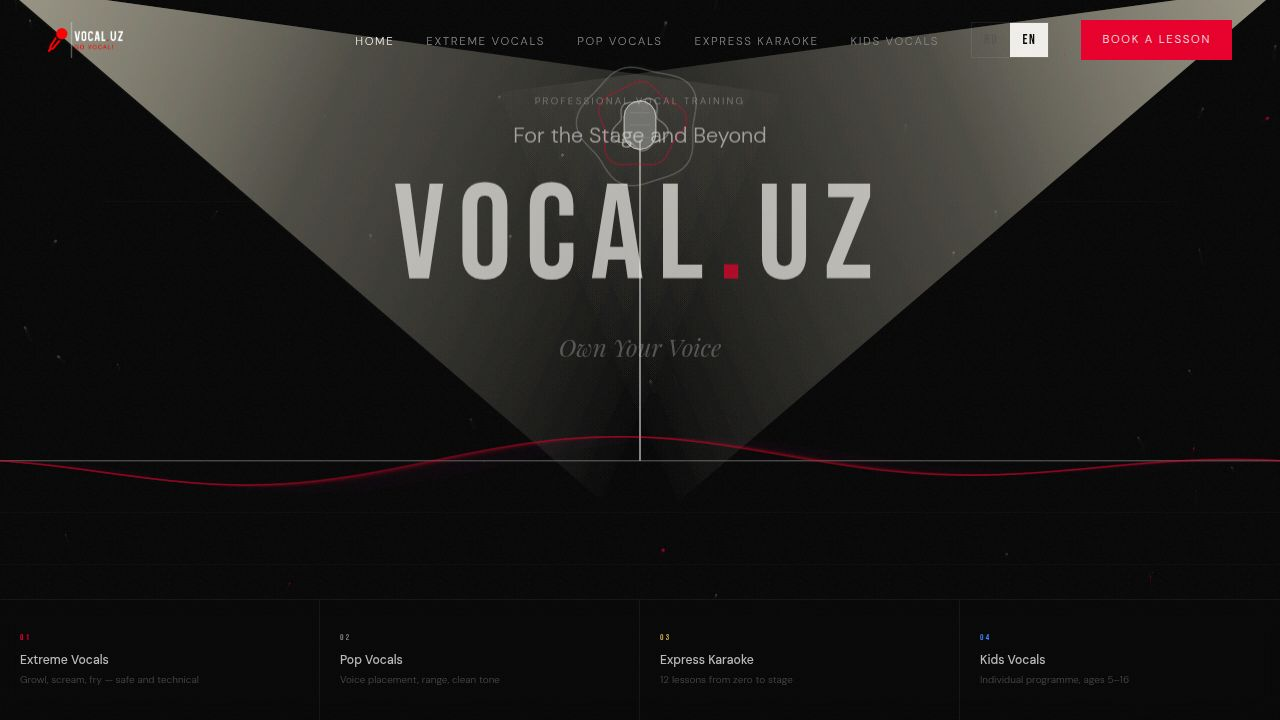
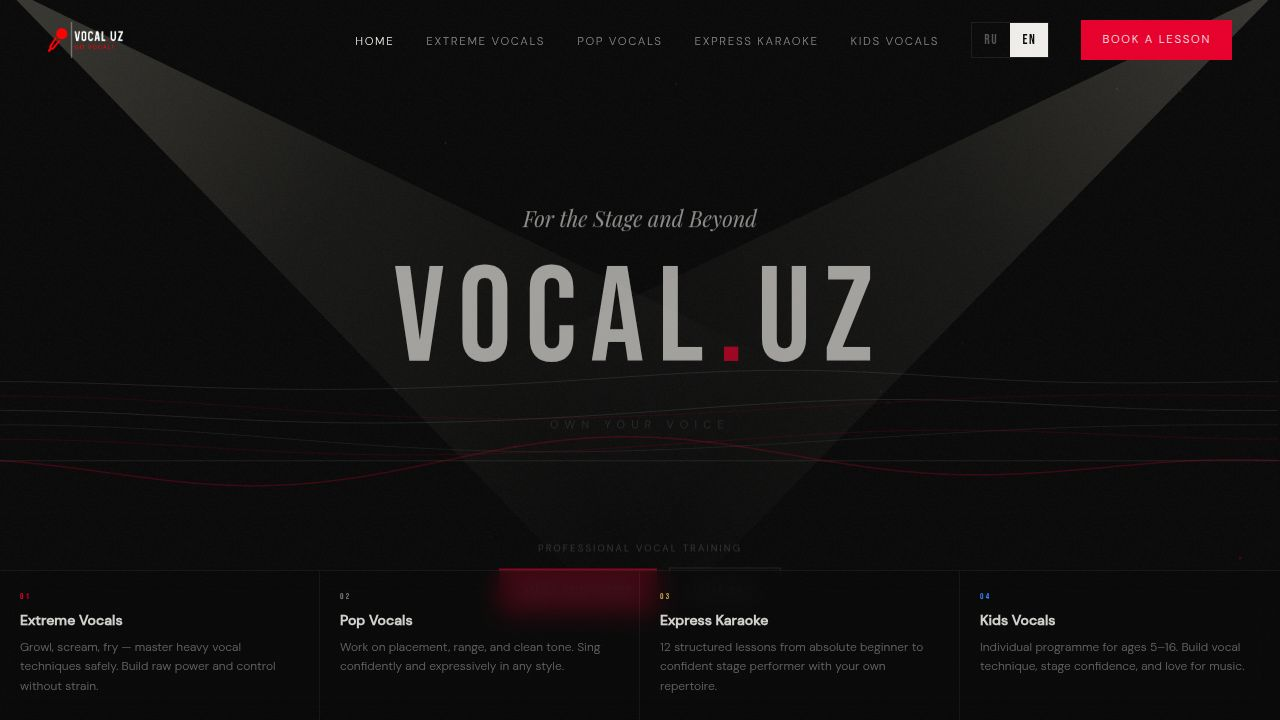
Enhance website appearance and optimize performance for a smoother user experience
Update StageCanvas.tsx to optimize animation performance, reduce particle count, and remove the microphone element. Modify Home.tsx to adjust the positioning of text elements, buttons, and the overall layout, while also restyling the "Own Your Voice" text for a more premium look and refining the appearance of sound waves and spotlights.

Replit-Commit-Author: Agent
Replit-Commit-Session-Id: 6d52f0fa-b37f-44e2-8a92-0a4e87ca5e2f
Replit-Commit-Checkpoint-Type: full_checkpoint
Replit-Commit-Event-Id: 73db0d34-9929-40c7-9d1e-d5d12a8bd964
Replit-Commit-Screenshot-Url: https://storage.googleapis.com/screenshot-production-us-central1/8c66aa3f-49f4-49f2-97a4-2fdcd6a14f45/6d52f0fa-b37f-44e2-8a92-0a4e87ca5e2f/KxLfHwG
Replit-Helium-Checkpoint-Created: true

diff --git a/artifacts/vocal-uz/src/components/StageCanvas.tsx b/artifacts/vocal-uz/src/components/StageCanvas.tsx
@@ -6,7 +6,7 @@ export function StageCanvas({ className }: { className?: string }) {
   useEffect(() => {
     const canvas = canvasRef.current;
     if (!canvas) return;
-    const ctx = canvas.getContext("2d");
+    const ctx = canvas.getContext("2d", { alpha: false });
     if (!ctx) return;
 
     const mq = window.matchMedia("(prefers-reduced-motion: reduce)");
@@ -16,6 +16,8 @@ export function StageCanvas({ className }: { className?: string }) {
     let time = 0;
     let mX = 0.5, mY = 0.5;
     let rafId = 0;
+    let lastTs = 0;
+    let hidden = document.hidden;
 
     function resize() {
       const rect = canvas!.getBoundingClientRect();
@@ -34,6 +36,9 @@ export function StageCanvas({ className }: { className?: string }) {
     };
     document.addEventListener("mousemove", onMouse);
 
+    const onVisibility = () => { hidden = document.hidden; };
+    document.addEventListener("visibilitychange", onVisibility);
+
     type P = { x: number; y: number; vx: number; vy: number; life: number; size: number; red: boolean };
 
     function makeParticle(init = false): P {
@@ -48,7 +53,7 @@ export function StageCanvas({ className }: { className?: string }) {
       };
     }
 
-    let particles: P[] = Array.from({ length: 55 }, () => makeParticle(true));
+    const particles: P[] = Array.from({ length: 22 }, () => makeParticle(true));
 
     function updateParticle(p: P) {
       p.x += p.vx + Math.sin(time * 0.35 + p.y * 0.012) * 0.12;
@@ -77,21 +82,18 @@ export function StageCanvas({ className }: { className?: string }) {
       const dist = Math.sqrt(dx * dx + dy * dy);
       const baseAngle = Math.atan2(dy, dx);
       const len = dist * 1.65;
-
       const a1 = baseAngle - spreadRad / 2;
       const a2 = baseAngle + spreadRad / 2;
       const x1 = tipX + Math.cos(a1) * len;
       const y1 = tipY + Math.sin(a1) * len;
       const x2 = tipX + Math.cos(a2) * len;
       const y2 = tipY + Math.sin(a2) * len;
-
       const gradEndX = tipX + Math.cos(baseAngle) * dist * 1.1;
       const gradEndY = tipY + Math.sin(baseAngle) * dist * 1.1;
       const grad = ctx!.createLinearGradient(tipX, tipY, gradEndX, gradEndY);
       grad.addColorStop(0, `rgba(255,248,220,${(alpha * 3.5).toFixed(3)})`);
       grad.addColorStop(0.45, `rgba(255,248,220,${(alpha * 1.1).toFixed(3)})`);
       grad.addColorStop(1, "rgba(255,248,220,0)");
-
       ctx!.save();
       ctx!.beginPath();
       ctx!.moveTo(tipX, tipY);
@@ -103,87 +105,17 @@ export function StageCanvas({ className }: { className?: string }) {
       ctx!.restore();
     }
 
-    function drawRing(cx: number, cy: number, r0: number, phase: number, color: string, alpha: number) {
-      ctx!.save();
-      ctx!.globalAlpha = alpha;
-      ctx!.strokeStyle = color;
-      ctx!.lineWidth = 1.5;
-      ctx!.beginPath();
-      const N = 72;
-      for (let i = 0; i <= N; i++) {
-        const a = (i / N) * Math.PI * 2;
-        const wave =
-          Math.sin(a * 5 + time * 1.1 + phase) * 3.5 +
-          Math.sin(a * 3 - time * 0.65 + phase) * 2.5;
-        const r = r0 + wave;
-        const x = cx + Math.cos(a) * r;
-        const y = cy + Math.sin(a) * r;
-        i === 0 ? ctx!.moveTo(x, y) : ctx!.lineTo(x, y);
-      }
-      ctx!.closePath();
-      ctx!.stroke();
-      ctx!.restore();
-    }
-
-    function drawHangingMic(): { hx: number; hy: number } {
-      const capsW = 16;
-      const capsH = 50;
-      const r = capsW / 2;
-      const sway = Math.sin(time * 0.28) * 5;
-      const cx = CX + sway;
-      const cy = H * 0.16;
-
-      ctx!.save();
-
-      ctx!.globalAlpha = 0.55;
-      ctx!.strokeStyle = "rgba(240,238,234,0.75)";
-      ctx!.lineWidth = 1.2;
-      ctx!.beginPath();
-      ctx!.moveTo(CX + sway * 0.15, -90);
-      ctx!.quadraticCurveTo(CX + sway * 0.55, cy * 0.4, cx, cy - capsH / 2);
-      ctx!.stroke();
-
-      ctx!.globalAlpha = 0.10;
-      ctx!.fillStyle = "rgba(240,238,234,1)";
-      ctx!.beginPath();
-      ctx!.roundRect(cx - capsW / 2, cy - capsH / 2, capsW, capsH, r);
-      ctx!.fill();
-
-      ctx!.globalAlpha = 0.55;
-      ctx!.strokeStyle = "rgba(240,238,234,0.7)";
-      ctx!.lineWidth = 1;
-      ctx!.beginPath();
-      ctx!.roundRect(cx - capsW / 2, cy - capsH / 2, capsW, capsH, r);
-      ctx!.stroke();
-
-      ctx!.globalAlpha = 0.20;
-      ctx!.strokeStyle = "rgba(240,238,234,0.5)";
-      ctx!.lineWidth = 0.7;
-      for (let i = 1; i <= 4; i++) {
-        const ly = cy - capsH / 2 + capsH * (i / 5);
-        ctx!.beginPath();
-        ctx!.moveTo(cx - r * 0.65, ly);
-        ctx!.lineTo(cx + r * 0.65, ly);
-        ctx!.stroke();
-      }
-
-      ctx!.restore();
-      return { hx: cx, hy: cy };
-    }
-
     function drawSoundWaves() {
-      const mx = (mX - 0.5) * 40;
-      const myAmp = 1 + (mY - 0.5) * 0.4;
+      const mx = (mX - 0.5) * 38;
+      const myAmp = 1 + (mY - 0.5) * 0.35;
 
       type Wave = { y: number; amp: number; freq: number; spd: number; alpha: number; red?: boolean };
       const waves: Wave[] = [
-        { y: H * 0.49, amp: 13, freq: 7.5, spd: 1.40, alpha: 0.10 },
-        { y: H * 0.52, amp: 24, freq: 4.2, spd: 0.85, alpha: 0.09, red: true },
-        { y: H * 0.54, amp: 18, freq: 6.1, spd: 1.15, alpha: 0.11 },
-        { y: H * 0.56, amp: 28, freq: 3.4, spd: 0.70, alpha: 0.08 },
-        { y: H * 0.58, amp: 16, freq: 8.3, spd: 1.65, alpha: 0.09 },
-        { y: H * 0.60, amp: 22, freq: 5.0, spd: 1.00, alpha: 0.10, red: true },
-        { y: H * 0.62, amp: 11, freq: 9.1, spd: 1.85, alpha: 0.07 },
+        { y: H * 0.53, amp: 14, freq: 7.0, spd: 1.35, alpha: 0.10 },
+        { y: H * 0.55, amp: 22, freq: 4.0, spd: 0.80, alpha: 0.09, red: true },
+        { y: H * 0.57, amp: 18, freq: 6.0, spd: 1.10, alpha: 0.11 },
+        { y: H * 0.59, amp: 24, freq: 3.5, spd: 0.65, alpha: 0.08 },
+        { y: H * 0.61, amp: 20, freq: 5.5, spd: 0.95, alpha: 0.10, red: true },
       ];
 
       waves.forEach(w => {
@@ -192,10 +124,9 @@ export function StageCanvas({ className }: { className?: string }) {
         ctx!.lineWidth = w.red ? 1.3 : 0.85;
         ctx!.globalAlpha = w.alpha;
         ctx!.beginPath();
-        for (let x = 0; x <= W; x += 2) {
+        for (let x = 0; x <= W; x += 3) {
           const nx = x / W;
-          const env = Math.sin(nx * Math.PI);
-          const env2 = Math.pow(env, 1.5);
+          const env2 = Math.pow(Math.sin(nx * Math.PI), 1.5);
           let y = w.y;
           y += Math.sin(nx * w.freq + time * w.spd + mx) * w.amp * env2 * myAmp;
           y += Math.sin(nx * w.freq * 0.5 + time * w.spd * 0.7) * w.amp * 0.3 * env2;
@@ -214,7 +145,7 @@ export function StageCanvas({ className }: { className?: string }) {
       ctx!.globalAlpha = 0.22;
       ctx!.beginPath();
       const mx = (mX - 0.5) * 45;
-      for (let x = 0; x <= W; x += 2) {
+      for (let x = 0; x <= W; x += 3) {
         const nx = x / W;
         const env = Math.sin(nx * Math.PI);
         const y =
@@ -235,7 +166,6 @@ export function StageCanvas({ className }: { className?: string }) {
       ctx!.moveTo(0, floorY);
       ctx!.lineTo(W, floorY);
       ctx!.stroke();
-
       ctx!.strokeStyle = "rgba(255,255,255,0.022)";
       ctx!.lineWidth = 0.5;
       for (let i = 1; i <= 4; i++) {
@@ -249,47 +179,41 @@ export function StageCanvas({ className }: { className?: string }) {
     }
 
     function draw() {
-      ctx!.fillStyle = "rgba(8,8,8,0.19)";
+      ctx!.fillStyle = "#080808";
       ctx!.fillRect(0, 0, W, H);
 
       const floorY = H * 0.64;
       const sw = Math.sin(time * 0.13);
-      const pulse = 0.06 + Math.sin(time * 0.5) * 0.015;
+      const pulse = 0.055 + Math.sin(time * 0.5) * 0.012;
 
       const tX = CX;
-      const tY = H * 0.50;
+      const tY = H * 0.62;
 
-      drawSpotlight(sw * W * 0.04, -H * 0.02, tX, tY, Math.PI / 5.5, pulse);
-      drawSpotlight(W + sw * W * 0.04, -H * 0.02, tX, tY, Math.PI / 5.5, pulse);
+      drawSpotlight(sw * W * 0.04, -H * 0.02, tX, tY, Math.PI / 9, pulse);
+      drawSpotlight(W + sw * W * 0.04, -H * 0.02, tX, tY, Math.PI / 9, pulse);
 
       drawFloor(floorY);
       drawFloorWave(floorY);
       drawSoundWaves();
 
-      const { hx, hy } = drawHangingMic();
-
-      const rp = 0.55 + Math.sin(time * 0.55) * 0.45;
-      drawRing(hx, hy, 24 + Math.sin(time * 0.4) * 2.5, 0, "rgba(255,255,255,0.9)", 0.14 * rp);
-      drawRing(hx, hy, 38 + Math.sin(time * 0.33 + 1) * 3.5, 2.1, "rgba(232,0,45,0.9)", 0.19 * rp);
-      drawRing(hx, hy, 55 + Math.sin(time * 0.42 + 2) * 4, 4.2, "rgba(255,255,255,0.8)", 0.10 * rp);
-
       particles.forEach(p => { updateParticle(p); drawParticle(p); });
     }
 
-    const onMqChange = (e: MediaQueryListEvent) => {
-      prefersReduced = e.matches;
-    };
+    const onMqChange = (e: MediaQueryListEvent) => { prefersReduced = e.matches; };
     mq.addEventListener("change", onMqChange);
 
     ctx.fillStyle = "#080808";
     ctx.fillRect(0, 0, canvas.width, canvas.height);
 
-    time = prefersReduced ? 1.5 : 0;
+    const TARGET_MS = 1000 / 30;
 
-    function loop() {
-      draw();
-      if (!prefersReduced) time += 0.01;
+    function loop(ts: number) {
       rafId = requestAnimationFrame(loop);
+      if (hidden) return;
+      if (ts - lastTs < TARGET_MS - 2) return;
+      lastTs = ts;
+      draw();
+      if (!prefersReduced) time += 0.018;
     }
     rafId = requestAnimationFrame(loop);
 
@@ -297,6 +221,7 @@ export function StageCanvas({ className }: { className?: string }) {
       cancelAnimationFrame(rafId);
       ro.disconnect();
       document.removeEventListener("mousemove", onMouse);
+      document.removeEventListener("visibilitychange", onVisibility);
       mq.removeEventListener("change", onMqChange);
     };
   }, []);

diff --git a/artifacts/vocal-uz/src/pages/Home.tsx b/artifacts/vocal-uz/src/pages/Home.tsx
@@ -47,7 +47,7 @@ export default function Home() {
         {/* Text composition — moved lower: slogan (italic) → VOCAL.UZ → motto (bold) */}
         <div
           className="absolute z-10 left-0 right-0 top-0 flex flex-col items-center justify-start pointer-events-none text-center px-6"
-          style={{ height: "60vh", paddingTop: "23vh" }}
+          style={{ height: "66vh", paddingTop: "28vh" }}
         >
           <div className="font-['Playfair_Display'] italic text-[clamp(1rem,1.8vw,1.35rem)] text-[rgba(240,238,234,0.65)] mb-4 leading-snug animate-[fadeUp_0.6s_0.3s_both]">
             {tx.hero.slogan}
@@ -57,7 +57,7 @@ export default function Home() {
             VOCAL<span className="text-[#e8002d]">.</span>UZ
           </div>
 
-          <div className="mt-4 font-bold text-[clamp(1.1rem,2vw,1.5rem)] text-[rgba(240,238,234,0.7)] tracking-[0.04em] animate-[fadeUp_0.6s_0.55s_both]">
+          <div className="mt-5 text-[0.7rem] font-light uppercase tracking-[0.55em] text-[rgba(240,238,234,0.45)] animate-[fadeUp_0.6s_0.55s_both]">
             {tx.hero.motto}
           </div>
         </div>
@@ -65,7 +65,7 @@ export default function Home() {
         {/* Professional tag + CTAs — below the sound waves, below floor wave */}
         <div
           className="absolute z-10 left-0 right-0 flex flex-col items-center gap-3 pointer-events-auto animate-[fadeUp_0.5s_0.5s_both]"
-          style={{ top: "67vh" }}
+          style={{ top: "70vh" }}
         >
           <span className="text-[0.6rem] tracking-[0.22em] uppercase text-[rgba(240,238,234,0.35)] pointer-events-none">
             {tx.hero.training}
@@ -106,7 +106,7 @@ export default function Home() {
             <Link
               key={c.href}
               href={c.href}
-              className={`px-5 py-6 md:py-8 no-underline group transition-all duration-300 hover:bg-white/[0.035]${i < 3 ? " border-r border-white/[0.05]" : ""}`}
+              className={`px-5 pt-4 pb-5 md:pt-5 md:pb-6 no-underline group transition-all duration-300 hover:bg-white/[0.035]${i < 3 ? " border-r border-white/[0.05]" : ""}`}
             >
               <div
                 className="text-[0.54rem] tracking-[0.28em] mb-2 font-display"
